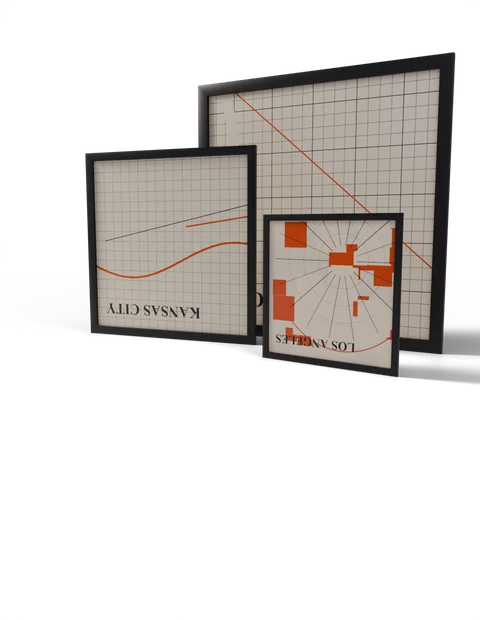
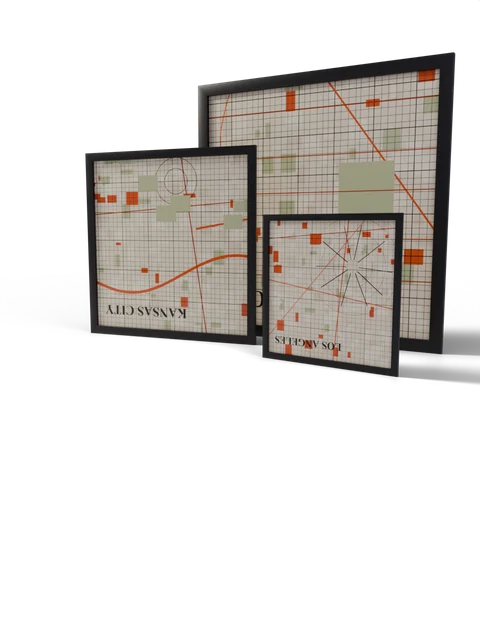
Art frame: richer city maps with grid streets + parks + rivers + freeways

Changed region(s): [[0.1875, 0.0919, 0.9375, 0.5823]]

diff --git a/scripts/_gen_city_map_textures.py b/scripts/_gen_city_map_textures.py
@@ -1,104 +1,219 @@
 """Generate stylized city-map prints for Kansas City, Los Angeles, New York.
 Style mimics Jazzberry Blue's framed-map series: warm cream background,
-intersecting orange + dark-grey road network, city label top-right.
-Output: scripts/models/city_<key>.png
+intersecting orange + dark-grey road network with block-fill density similar
+to the Amsterdam reference. Output: scripts/models/city_<key>.png
 """
 import os, math, random
-from PIL import Image, ImageDraw, ImageFont
+from PIL import Image, ImageDraw, ImageFont, ImageFilter
 
 OUT = os.path.join(os.path.dirname(__file__), "models")
 os.makedirs(OUT, exist_ok=True)
 
 W = H = 1024
-BG     = (231, 222, 198)        # warm cream
-ORANGE = (211, 88, 50)
+BG     = (234, 224, 198)        # warm cream
+BLOCK_LIGHT = (244, 236, 212)
+BLOCK_MED   = (224, 213, 184)
+BLOCK_PARK  = (188, 196, 154)   # park green-tan
+ORANGE = (215, 96, 56)
+ORANGE_DK = (170, 70, 38)
 GREY   = (62, 62, 64)
-DARK   = (36, 36, 40)
-LIGHT  = (245, 240, 220)
+DARK   = (28, 28, 32)
 
 
-def draw_city(name, key, seed=0, motif="grid"):
+def add_grain(img, intensity=8):
+    """Subtle paper grain on the cream background."""
+    px = img.load()
+    for y in range(0, H, 2):
+        for x in range(0, W, 2):
+            r, g, b = px[x, y]
+            n = random.randint(-intensity, intensity)
+            px[x, y] = (max(0, min(255, r + n)),
+                        max(0, min(255, g + n)),
+                        max(0, min(255, b + n)))
+
+
+def fill_blocks(d, density=0.28):
+    """Sprinkle small irregular blocks across the canvas in 2-3 cream tones."""
+    n = int((W * H) * density / 1800)
+    for _ in range(n):
+        x = random.randint(0, W); y = random.randint(0, H)
+        w = random.randint(18, 70); h = random.randint(18, 70)
+        choice = random.random()
+        if choice < 0.6:   col = BLOCK_LIGHT
+        elif choice < 0.8: col = BLOCK_MED
+        elif choice < 0.92:col = BLOCK_PARK
+        else:              col = ORANGE
+        d.rectangle([x - w//2, y - h//2, x + w//2, y + h//2], fill=col)
+
+
+def grid_streets(d, spacing=24, jitter=4):
+    """Dense fine-street grid in dark grey with subtle randomization."""
+    for x in range(0, W, spacing):
+        ox = random.randint(-jitter, jitter)
+        d.line([(x + ox, 0), (x + ox, H)],
+               fill=DARK if (x // spacing) % 6 == 0 else GREY,
+               width=2 if (x // spacing) % 6 == 0 else 1)
+    for y in range(0, H, spacing):
+        oy = random.randint(-jitter, jitter)
+        d.line([(0, y + oy), (W, y + oy)],
+               fill=DARK if (y // spacing) % 6 == 0 else GREY,
+               width=2 if (y // spacing) % 6 == 0 else 1)
+
+
+def diagonal_avenues(d, count=4, color=ORANGE_DK):
+    """Random diagonal avenues at varying widths."""
+    for _ in range(count):
+        x1, y1 = random.randint(0, W // 2), random.randint(0, H)
+        x2, y2 = random.randint(W // 2, W), random.randint(0, H)
+        d.line([(x1, y1), (x2, y2)], fill=color, width=random.choice([3, 4, 5]))
+
+
+def radial_avenues(d, cx, cy, count=12, r_min=80, r_max=480, color=ORANGE):
+    """Radial avenues out of a center point — used for Paris/LA-style layouts."""
+    for i in range(count):
+        ang = math.radians(i * 360 / count + random.uniform(-6, 6))
+        x1, y1 = cx + r_min * math.cos(ang), cy + r_min * math.sin(ang)
+        x2, y2 = cx + r_max * math.cos(ang), cy + r_max * math.sin(ang)
+        d.line([(x1, y1), (x2, y2)], fill=color,
+               width=random.choice([3, 4, 4]))
+
+
+def ring_roads(d, cx, cy, radii, color=DARK, width=2):
+    for r in radii:
+        d.ellipse([cx - r, cy - r, cx + r, cy + r], outline=color, width=width)
+
+
+def river_curve(d, points, color=BG, width=22):
+    """Draw a flowing river using a polyline with thick stroke + lighter fill."""
+    for i in range(len(points) - 1):
+        d.line([points[i], points[i + 1]], fill=color, width=width)
+
+
+def label(d, text, font_size=86, position=(W - 60, 50), color=DARK, anchor="ra"):
+    """Top-right city label using a serif font (Times New Roman Bold)."""
+    paths = [
+        "/System/Library/Fonts/Supplemental/Times New Roman Bold.ttf",
+        "/System/Library/Fonts/Supplemental/Times New Roman.ttf",
+    ]
+    fnt = None
+    for p in paths:
+        if os.path.exists(p):
+            try:
+                fnt = ImageFont.truetype(p, font_size); break
+            except Exception: pass
+    if fnt is None: fnt = ImageFont.load_default()
+    d.text(position, text, fill=color, font=fnt, anchor=anchor)
+
+
+# ── per-city composers ───────────────────────────────────────────────────────
+
+def draw_new_york(seed=42):
     random.seed(seed)
     img = Image.new("RGB", (W, H), BG)
     d = ImageDraw.Draw(img)
-
-    if motif == "grid":
-        # Manhattan / grid streets
-        spacing = 38
-        for x in range(0, W, spacing):
-            d.line([(x, 0), (x, H)], fill=DARK if (x // spacing) % 4 == 0 else GREY,
-                   width=2 if (x // spacing) % 4 == 0 else 1)
-        for y in range(0, H, spacing):
-            d.line([(0, y), (W, y)], fill=DARK if (y // spacing) % 4 == 0 else GREY,
-                   width=2 if (y // spacing) % 4 == 0 else 1)
-        # Diagonal Broadway-ish
-        d.line([(0, 60), (W, H - 100)], fill=ORANGE, width=4)
-        # River-ish on the right
-        for i in range(220):
-            t = i / 220
-            x = int(W - 80 + 30 * math.sin(t * 8))
-            y = int(t * H)
-            d.ellipse([x - 22, y - 4, x + 22, y + 4], fill=BG)
-
-    elif motif == "freeway":
-        # LA — sweeping freeway curves on a radial-ish layout
-        # Background blocks
-        for _ in range(60):
-            x = random.randint(0, W); y = random.randint(0, H)
-            sz = random.randint(40, 110)
-            d.rectangle([x - sz, y - sz, x + sz, y + sz],
-                        fill=ORANGE if random.random() < 0.25 else (245, 230, 200))
-        # Freeway curves
-        cx, cy = W // 2, H // 2 + 80
-        for ang in range(0, 360, 20):
-            r1, r2 = 90, 460
-            ang_r = math.radians(ang)
-            x1, y1 = cx + r1 * math.cos(ang_r), cy + r1 * math.sin(ang_r)
-            x2, y2 = cx + r2 * math.cos(ang_r), cy + r2 * math.sin(ang_r)
-            d.line([(x1, y1), (x2, y2)], fill=DARK, width=3)
-        for r in (160, 260, 360):
-            d.ellipse([cx - r, cy - r, cx + r, cy + r], outline=GREY, width=1)
-        # Big freeway curve
-        d.arc([60, 60, W - 60, H - 60], 200, 340, fill=ORANGE, width=6)
-
-    elif motif == "river":
-        # Kansas City — two rivers (Missouri + Kansas) meeting
-        # Block grid base
-        for x in range(0, W, 48):
-            d.line([(x, 0), (x, H)], fill=GREY, width=1)
-        for y in range(0, H, 48):
-            d.line([(0, y), (W, y)], fill=GREY, width=1)
-        # Missouri river — sweeping curve top-right
-        pts = [(int(W * t), int(H * 0.35 + 80 * math.sin(t * 6) - t * 30))
-               for t in (i / 60 for i in range(61))]
-        for i in range(len(pts) - 1):
-            d.line([pts[i], pts[i + 1]], fill=ORANGE, width=10)
-        # Kansas river — joining from left
-        pts2 = [(int(W * 0.10 + W * 0.4 * t), int(H * 0.55 - 60 * t))
-                for t in (i / 30 for i in range(31))]
-        for i in range(len(pts2) - 1):
-            d.line([pts2[i], pts2[i + 1]], fill=ORANGE, width=8)
-        # Highway crossings
-        d.line([(60, H // 2 + 120), (W - 60, H // 2 - 80)], fill=DARK, width=4)
-
-    # City label top-right
-    try:
-        fnt_lg = ImageFont.truetype("/System/Library/Fonts/Supplemental/Times New Roman Bold.ttf", 78)
-    except Exception:
-        fnt_lg = ImageFont.load_default()
-    label = name.upper()
-    bbox = d.textbbox((0, 0), label, font=fnt_lg)
-    tw = bbox[2] - bbox[0]
-    d.text((W - tw - 56, 50), label, fill=DARK, font=fnt_lg)
-
-    # Pre-flip horizontally so text reads correctly through the print mesh's
-    # mirrored UV (the existing Amsterdam print texture is flipped too).
-    img = img.transpose(Image.FLIP_LEFT_RIGHT)
-    out_path = os.path.join(OUT, f"city_{key}.png")
-    img.save(out_path)
-    print(f"saved {out_path}")
+    fill_blocks(d, density=0.32)
+    grid_streets(d, spacing=22, jitter=3)
+    # Manhattan diagonal: Broadway
+    d.line([(W * 0.05, H * 0.15), (W * 0.65, H * 0.95)], fill=ORANGE, width=6)
+    # FDR Drive (East River side)
+    for y in range(0, H, 8):
+        x = int(W - 80 + 28 * math.sin(y * 0.012))
+        d.line([(x, y), (x, y + 10)], fill=ORANGE, width=3)
+    # Hudson on the LEFT
+    for y in range(0, H, 4):
+        x = int(38 + 22 * math.sin(y * 0.009))
+        d.ellipse([x - 38, y - 4, x + 30, y + 4], fill=BG)
+    # Central Park: rectangular green strip
+    cp_x1, cp_x2 = int(W * 0.32), int(W * 0.50)
+    cp_y1, cp_y2 = int(H * 0.20), int(H * 0.55)
+    d.rectangle([cp_x1, cp_y1, cp_x2, cp_y2], fill=BLOCK_PARK)
+    grid_streets(ImageDraw.Draw(img.crop((cp_x1, cp_y1, cp_x2, cp_y2)).copy()),
+                 spacing=999)  # no streets in park
+    # Cross streets emphasized 14th, 23rd, 34th, 42nd, 57th, 72nd
+    for y_pct in (0.18, 0.31, 0.46, 0.58, 0.73, 0.88):
+        y = int(H * y_pct)
+        d.line([(0, y), (W, y)], fill=ORANGE_DK, width=3)
+    label(d, "NEW YORK", font_size=84, position=(W - 50, 50))
+    add_grain(img)
+    return img
 
 
-draw_city("Kansas City", "kansas_city", seed=12, motif="river")
-draw_city("Los Angeles", "los_angeles", seed=37, motif="freeway")
-draw_city("New York",    "new_york",    seed=99, motif="grid")
+def draw_los_angeles(seed=37):
+    random.seed(seed)
+    img = Image.new("RGB", (W, H), BG)
+    d = ImageDraw.Draw(img)
+    fill_blocks(d, density=0.40)
+    # LA's irregular grid + freeways
+    grid_streets(d, spacing=30, jitter=6)
+    # Major freeways (101, 110, 5, 405, 10) sweeping through
+    cx, cy = W // 2, H // 2 + 60
+    # 101 (Hollywood) east-west diagonal
+    d.line([(0, H * 0.30), (W, H * 0.45)], fill=ORANGE, width=6)
+    # 110 (Harbor) north-south through center
+    d.line([(W * 0.55, 0), (W * 0.45, H)], fill=ORANGE, width=6)
+    # 5 (Golden State) slant from upper-right to lower-left
+    d.line([(W, H * 0.10), (W * 0.20, H)], fill=ORANGE, width=5)
+    # 405 (San Diego) far west
+    d.line([(W * 0.18, 0), (W * 0.10, H)], fill=ORANGE_DK, width=5)
+    # 10 (Santa Monica) east-west lower
+    d.line([(0, H * 0.78), (W, H * 0.70)], fill=ORANGE_DK, width=5)
+    # Ring road + inner radial (like a downtown grid centered)
+    radial_avenues(d, cx=int(W * 0.44), cy=int(H * 0.55), count=10, r_min=40, r_max=240, color=DARK)
+    ring_roads(d, int(W * 0.44), int(H * 0.55), radii=[120, 200, 280], color=DARK, width=1)
+    # Beach/Pacific on the bottom-left curve
+    for x in range(0, int(W * 0.55), 6):
+        y = int(H - 70 + 40 * math.sin(x * 0.01))
+        d.ellipse([x - 4, y - 4, x + 60, y + 12], fill=BG)
+    label(d, "LOS ANGELES", font_size=66, position=(W - 50, 50))
+    add_grain(img)
+    return img
+
+
+def draw_kansas_city(seed=12):
+    random.seed(seed)
+    img = Image.new("RGB", (W, H), BG)
+    d = ImageDraw.Draw(img)
+    fill_blocks(d, density=0.34)
+    grid_streets(d, spacing=24, jitter=4)
+    # Missouri River — curving across upper third
+    pts = []
+    for t in (i / 80 for i in range(81)):
+        x = int(W * t)
+        y = int(H * 0.30 + 80 * math.sin(t * 6) - t * 60)
+        pts.append((x, y))
+    river_curve(d, pts, color=ORANGE, width=14)
+    # Kansas River — joining from west
+    pts2 = []
+    for t in (i / 40 for i in range(41)):
+        x = int(W * 0.05 + W * 0.40 * t)
+        y = int(H * 0.55 - 70 * t)
+        pts2.append((x, y))
+    river_curve(d, pts2, color=ORANGE, width=10)
+    # Highways
+    d.line([(0, H * 0.62), (W, H * 0.55)], fill=ORANGE_DK, width=5)  # I-70
+    d.line([(W * 0.40, 0), (W * 0.55, H)], fill=ORANGE_DK, width=5)  # I-29/35
+    d.line([(0, H * 0.84), (W, H * 0.84)], fill=ORANGE_DK, width=4)  # I-435 south
+    # Plaza loop (downtown)
+    cx, cy = int(W * 0.55), int(H * 0.70)
+    ring_roads(d, cx, cy, radii=[60, 110], color=DARK, width=2)
+    # Some park blocks
+    for _ in range(8):
+        x = random.randint(80, W - 200); y = random.randint(int(H * 0.45), H - 80)
+        sz = random.randint(50, 110)
+        d.rectangle([x, y, x + sz, y + int(sz * 0.7)], fill=BLOCK_PARK)
+    label(d, "KANSAS CITY", font_size=68, position=(W - 50, 50))
+    add_grain(img)
+    return img
+
+
+# ── render and save ──────────────────────────────────────────────────────────
+
+for key, drawer in [("new_york", draw_new_york),
+                    ("los_angeles", draw_los_angeles),
+                    ("kansas_city", draw_kansas_city)]:
+    im = drawer()
+    # Pre-flip horizontally so the print mesh's mirrored UV reads correctly.
+    im = im.transpose(Image.FLIP_LEFT_RIGHT)
+    out = os.path.join(OUT, f"city_{key}.png")
+    im.save(out)
+    print(f"saved {out}")
